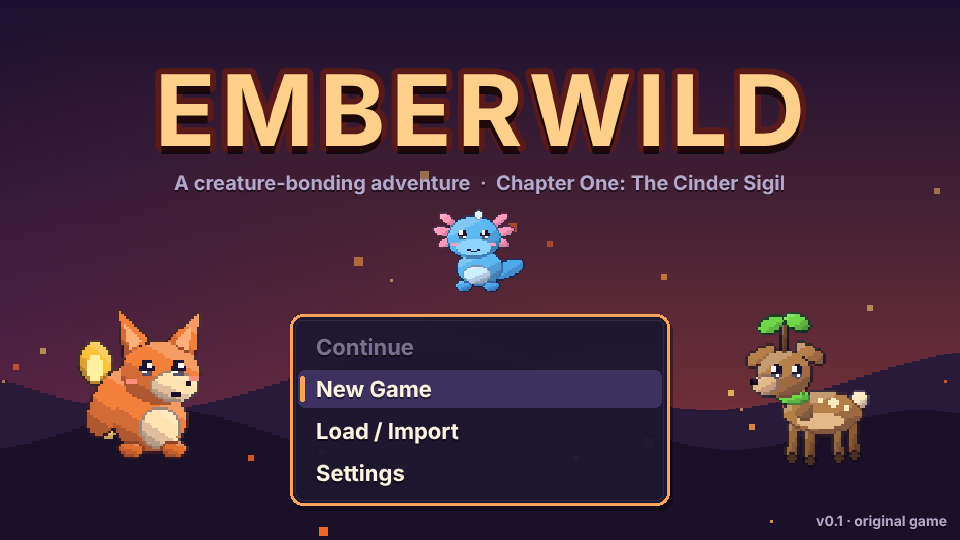
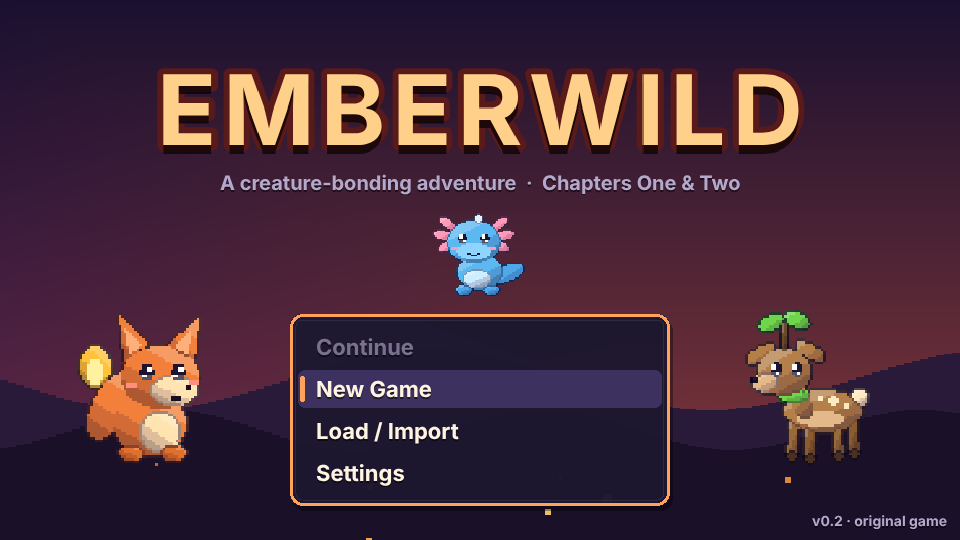
Extend smoke tests into Chapter Two; update docs and screenshots
- Playwright: warp into Gullhaven and walk, ride a Stormcrest gale lane to
  its end, battle a new creature in Mirefen, and continue a real version 1
  save through Cindervale's east gate onto Saltwind Road
- Fix: changing map mid-step could let the old scene write its coordinates
  over the destination; changeMap now cancels the step
- Fix: paddling off a water edge could cross a connection onto a solid tile;
  edge crossings now require a standable (or surfable) destination
- README: Chapter Two overview, systems, puzzle tiles, saves and balance
  notes; CREDITS: Chapter Two art, writing and music
- New screenshots (harbour, marsh, ridge, grotto, hall, two battles) and an
  updated title screen; version 0.2.0

diff --git a/e2e/smoke.spec.ts b/e2e/smoke.spec.ts
@@ -1,50 +1,48 @@
-import { expect, test } from '@playwright/test';
+import { expect, test, type Page } from '@playwright/test';
 
 type Ew = {
   scenes(): string[];
   player(): { x: number; y: number; map: string; busy: boolean; moving: boolean } | null;
+  state(): { version: number; map: string; flags: Record<string, boolean>; party: { species: string }[]; surfing: boolean };
   giveStarter(species?: string, level?: number): void;
   wildBattle(species: string, level: number): Promise<string>;
+  warp(map: string, x: number, y: number): void;
+  step(dir: 'up' | 'down' | 'left' | 'right'): boolean;
 };
 declare global {
   interface Window { __ew: Ew }
 }
 
-test('boots, starts a new game, walks, and finishes a battle without errors', async ({ page }) => {
+function trackErrors(page: Page) {
   const errors: string[] = [];
   page.on('console', (m) => { if (m.type() === 'error') errors.push(m.text()); });
   page.on('pageerror', (e) => errors.push(e.message));
+  return errors;
+}
 
+const player = (page: Page) => page.evaluate(() => window.__ew.player());
+
+async function idle(page: Page) {
+  await expect.poll(async () => { const p = await player(page); return !!p && !p.busy && !p.moving; }, { timeout: 15_000 }).toBe(true);
+}
+
+/** Title -> New Game -> intro text -> pick the first name, until the player can move. */
+async function newGame(page: Page) {
   await page.goto('./');
   await expect.poll(() => page.evaluate(() => window.__ew?.scenes() ?? []), { timeout: 20_000 }).toContain('Title');
-
-  // Title -> New Game -> intro text -> pick the first name
   await page.keyboard.press('Enter');
-  const player = () => page.evaluate(() => window.__ew.player());
   for (let i = 0; i < 60; i++) {
-    const p = await player();
+    const p = await player(page);
     if (p && !p.busy && !p.moving) break;
     await page.keyboard.press('Enter');
     await page.waitForTimeout(400);
   }
-  const start = await player();
-  expect(start?.map).toBe('home');
+}
 
-  // Walk with the real keyboard
-  await page.keyboard.down('ArrowLeft');
-  await page.waitForTimeout(700);
-  await page.keyboard.up('ArrowLeft');
-  await expect.poll(async () => (await player())?.x, { timeout: 5000 }).toBeLessThan(start!.x);
-
-  // Get a partner and enter a wild battle
-  await page.evaluate(() => {
-    window.__ew.giveStarter('kindlet', 8);
-    void window.__ew.wildBattle('mossgrub', 2);
-  });
+/** Press Confirm through a battle until it ends. */
+async function finishBattle(page: Page) {
   await expect.poll(() => page.evaluate(() => window.__ew.scenes()), { timeout: 10_000 }).toContain('Battle');
-
-  // Press Confirm repeatedly: picks Fight -> first move until the wild creature faints (or we flee)
-  for (let i = 0; i < 120; i++) {
+  for (let i = 0; i < 160; i++) {
     const scenes = await page.evaluate(() => window.__ew.scenes());
     if (!scenes.includes('Battle')) break;
     await page.keyboard.press('Enter');
@@ -52,5 +50,86 @@ test('boots, starts a new game, walks, and finishes a battle without errors', as
   }
   await expect.poll(() => page.evaluate(() => window.__ew.scenes()), { timeout: 15_000 }).not.toContain('Battle');
   expect(await page.evaluate(() => window.__ew.scenes())).toContain('Overworld');
+}
+
+test('boots, starts a new game, walks, and finishes a battle without errors', async ({ page }) => {
+  const errors = trackErrors(page);
+  await newGame(page);
+  const start = await player(page);
+  expect(start?.map).toBe('home');
+
+  // Walk with the real keyboard
+  await page.keyboard.down('ArrowLeft');
+  await page.waitForTimeout(700);
+  await page.keyboard.up('ArrowLeft');
+  await expect.poll(async () => (await player(page))?.x, { timeout: 5000 }).toBeLessThan(start!.x);
+
+  // Get a partner and enter a wild battle; pressing Confirm picks Fight -> first move until it ends
+  await page.evaluate(() => {
+    window.__ew.giveStarter('kindlet', 8);
+    void window.__ew.wildBattle('mossgrub', 2);
+  });
+  await finishBattle(page);
+  expect(errors).toEqual([]);
+});
+
+test('warps into the Brinemark Coast, walks, rides a gale lane and battles a new creature', async ({ page }) => {
+  const errors = trackErrors(page);
+  await newGame(page);
+  // Level 8 so the first move is an attack (pressing Confirm always picks it)
+  await page.evaluate(() => window.__ew.giveStarter('kindlet', 8));
+
+  // Gullhaven: arrive and walk east along the harbour road with the keyboard
+  await page.evaluate(() => window.__ew.warp('gullhaven', 10, 7));
+  await expect.poll(async () => (await player(page))?.map, { timeout: 10_000 }).toBe('gullhaven');
+  await idle(page);
+  await page.keyboard.down('ArrowRight');
+  await page.waitForTimeout(900);
+  await page.keyboard.up('ArrowRight');
+  await expect.poll(async () => (await player(page))?.x, { timeout: 5000 }).toBeGreaterThan(10);
+  await idle(page);
+
+  // Stormcrest Ridge: step into a gale lane and get carried to its far end
+  await page.evaluate(() => window.__ew.warp('stormridge', 5, 17));
+  await expect.poll(async () => (await player(page))?.map, { timeout: 10_000 }).toBe('stormridge');
+  await idle(page);
+  await page.evaluate(() => window.__ew.step('up'));
+  await idle(page);
+  await page.evaluate(() => window.__ew.step('up'));
+  await expect.poll(async () => { const p = await player(page); return p && !p.moving ? `${p.map}:${p.x},${p.y}` : ''; }, { timeout: 10_000 }).toBe('stormridge:32,15');
+
+  // Mirefen Marsh: a wild battle against a Chapter Two creature
+  await page.evaluate(() => window.__ew.warp('mirefen', 10, 6));
+  await expect.poll(async () => (await player(page))?.map, { timeout: 10_000 }).toBe('mirefen');
+  await idle(page);
+  await page.evaluate(() => { void window.__ew.wildBattle('bogbloop', 2); });
+  await finishBattle(page);
+  expect(errors).toEqual([]);
+});
+
+test('continues a Chapter One (version 1) save', async ({ page }) => {
+  const errors = trackErrors(page);
+  const v1 = {
+    version: 1, playerName: 'Wren', rivalStarter: 'puddlop', starter: 'kindlet', map: 'cindervale', x: 22, y: 7, dir: 'right',
+    party: [{ uid: 'a', species: 'pyrolynx', level: 15, xp: 2700, hp: 40, ivs: { hp: 10, atk: 10, def: 10, spa: 10, spd: 10, spe: 10 }, moves: [{ id: 'scratch', pp: 35, maxPp: 35 }], status: null, statusTurns: 0 }],
+    storage: [], bag: { bond_stone: 3, wildlog: 1 }, money: 2400,
+    flags: { introDone: true, gotStarter: true, beatWarden: true }, seen: ['kindlet'], caught: ['kindlet'], defeatedTrainers: [],
+    lastHearth: { map: 'hearth_cv', x: 6, y: 3 }, clock: 600, playTimeMs: 4_000_000,
+    stats: { steps: 3000, battlesWon: 40, wildEncounters: 30, bonded: 4 }, savedAt: Date.now(),
+  };
+  await page.addInitScript((save) => { window.localStorage.setItem('emberwild.auto', save); }, JSON.stringify(v1));
+  await page.goto('./');
+  await expect.poll(() => page.evaluate(() => window.__ew?.scenes() ?? []), { timeout: 20_000 }).toContain('Title');
+  await page.keyboard.press('Enter'); // Continue
+  await expect.poll(async () => (await player(page))?.map, { timeout: 10_000 }).toBe('cindervale');
+  const st = await page.evaluate(() => window.__ew.state());
+  expect(st.version).toBe(2);
+  expect(st.surfing).toBe(false);
+  expect(st.party[0].species).toBe('pyrolynx');
+  // The east gate is open after beating Corra: walk off the east edge onto Saltwind Road
+  await idle(page);
+  await page.keyboard.down('ArrowRight');
+  await expect.poll(async () => (await player(page))?.map, { timeout: 15_000 }).toBe('route3');
+  await page.keyboard.up('ArrowRight');
   expect(errors).toEqual([]);
 });

diff --git a/src/scenes/OverworldScene.ts b/src/scenes/OverworldScene.ts
@@ -382,6 +382,10 @@ export class OverworldScene extends Phaser.Scene {
       const t = getMap(c.map);
       const tx = side === 'east' ? 0 : side === 'west' ? t.rows[0].length - 1 : this.px + c.offset;
       const ty = side === 'north' ? t.rows.length - 1 : side === 'south' ? 0 : this.py + c.offset;
+      // Only cross if we could stand there (e.g. paddling off a water edge onto trees is not allowed).
+      const dest = t.rows[ty]?.[tx];
+      const spec = dest === undefined ? undefined : LEGEND[dest];
+      if (!spec || (spec.solid && !(spec.water && session.state.surfing))) return this.bump();
       this.changeMap(c.map, tx, ty, d, false);
       return;
     }
@@ -697,6 +701,9 @@ export class OverworldScene extends Phaser.Scene {
   changeMap(mapId: string, x: number, y: number, dir: Dir, autosave: boolean) {
     if (this.transitioning) return;
     this.transitioning = true;
+    // Cancel any step in progress so it can't write this map's coordinates over the destination.
+    this.moving = false;
+    this.sliding = false;
     const st = session.state;
     if (mapId !== st.map) moveRoamer(st.roamer, session.rng);
     if (!LEGEND[getMap(mapId).rows[y]?.[x] ?? '.']?.water) st.surfing = false;

diff --git a/README.md b/README.md
@@ -1,6 +1,6 @@
 # Emberwild
 
-**An original creature-bonding RPG that runs in your browser.** Pick a partner, explore a rain-soaked forest and a pitch-black crystal cave, bond with wild creatures, outwit the mysterious Hollow Veil and take on Warden Corra for the Cinder Sigil.
+**An original creature-bonding RPG that runs in your browser.** Pick a partner, explore a rain-soaked forest and a pitch-black crystal cave, bond with wild creatures, outwit the mysterious Hollow Veil and take on Warden Corra for the Cinder Sigil. Then head east to the Brinemark Coast: paddle across a tidal marsh, ride the gale lanes of a storm-swept ridge, rescue Warden Maren and earn the Tide Sigil.
 
 ▶ **Play it: https://zerochance1907.github.io/emberwild/**
 
@@ -10,8 +10,13 @@
 |---|---|
 | ![Overworld](docs/screenshots/village.png) | ![Battle](docs/screenshots/battle.png) |
 | ![Whisperwood in the rain](docs/screenshots/forest.png) | ![Glimmer Cave](docs/screenshots/cave.png) |
+| ![Gullhaven harbour](docs/screenshots/harbor.png) | ![Paddling across Mirefen Marsh on the Driftboard](docs/screenshots/marsh.png) |
+| ![Gale lanes on Stormcrest Ridge](docs/screenshots/ridge.png) | ![Tide pools in Tidewrack Grotto](docs/screenshots/grotto.png) |
+| ![The current maze in Tidewater Hall](docs/screenshots/hall.png) | ![A battle in the marsh](docs/screenshots/battle-marsh.png) |
 
-Chapter One is a complete adventure of about 1–2 hours: a village, two routes, a forest with a light puzzle and hidden items, a dark cave dungeon and a town with the first Warden.
+**Chapter One** (about 1–2 hours) has a village, two routes, a forest with a light puzzle and hidden items, a dark cave dungeon and a town with the first Warden.
+
+**Chapter Two** (about 2–3 hours) continues from Warden Corra's victory. The rockslide on Cindervale's east road is cleared, and Saltwind Road leads to the port town of **Gullhaven**. From there you cross **Mirefen Marsh** on a reed Driftboard to the ruined **Starfall Observatory**, where Veil Admin Vesper has built a lens that steals lightning from a storm. With the storm broken, the ferry carries you to **Stormcrest Ridge** and its gale lanes, then down into **Tidewrack Grotto**, a dungeon of tide valves, to rescue Warden Maren. Finish by solving the current maze of **Tidewater Hall** and battling Maren for the Tide Sigil. After that, the **Tidewatch Spire** opens for a post-game battle streak.
 
 ## Controls
 
@@ -27,23 +32,31 @@ Every key can be remapped under **Settings → Remap keys**. Hold *Back* to fast
 
 ## Features
 
-- **18 original creatures** across 8 types (Ember, Tide, Sprout, Gale, Stone, Spark, Shade, Fae), each with stats, a learnset, a Wildlog entry and evolution lines. All sprites (front, back and icon) are drawn in code.
-- **50 moves** (physical, special and status) and **5 status conditions**: burned, blighted, jolted, drowsy and dazed.
+- **36 original creatures** across 8 types (Ember, Tide, Sprout, Gale, Stone, Spark, Shade, Fae), each with stats, a learnset, a Wildlog entry and evolution lines. Two lines have three stages (Pipwhisk → Wadewing → Galeheron, Fizzkid → Ramblast → Cragthunder), and the rare Squallion roams the coast. All sprites (front, back and icon) are drawn in code.
+- **79 moves** (physical, special and status) and **5 status conditions**: burned, blighted, jolted, drowsy and dazed.
 - **Turn-based battles** with speed order and priority, accuracy, critical hits, same-type bonus, stat stages, switching, items, fleeing and catching with Bond Stones (with shake animation). There's also XP, level-ups, move learning with a replace prompt, and an evolution scene.
 - **Trainer AI** that scores moves by damage, KO potential, type matchups and status value, heals when in danger and switches out of bad matchups.
-- **A short story** with a rival (Kip), the Hollow Veil and their Agent Nyx, a side quest (Old Bram's lost lantern), ten trainers with line-of-sight challenges and a chapter-end stats screen.
-- **Systems:** starter choice, a team of 6 plus storage, bag, shop, Hearth healing, Wildlog (seen/bonded), and autosave plus 3 manual slots with export/import save codes.
-- **Modern feel:** smooth tile movement and running, camera easing, a day/night cycle, rain in Whisperwood, a lantern-lit dark cave, and animated water, grass and crystals. Battles have hit flashes, screen shake, eased HP bars, damage numbers and particles for each type.
+- **A story in two chapters** with a rival (Kip, three battles), the Hollow Veil's Agent Nyx and Tempest Admin Vesper, two Wardens, 37 trainers with line-of-sight challenges, three side quests (Old Bram's lost lantern, Fisher Wade's Ribboneel, Keeper Ysolde's star log) and a stats screen at the end of each chapter.
+- **Systems:** starter choice, a team of 6 plus storage, bag, shops, Hearth healing, Wildlog (seen/bonded), and autosave plus 3 manual slots with export/import save codes. Saves from Chapter One load and continue straight into Chapter Two.
+- **Chapter Two systems:**
+  - **Lure Reed fishing:** face water, cast, and press Confirm the moment the "!" appears. Each area has its own catches.
+  - **Driftboard:** paddle across deep water, which has its own wild creatures.
+  - **Held items:** eight type charms plus Moss Wrap, Mend Berry, Clear Leaf, Stubborn Shell, Swift Feather and Lucky Scale. Give and take them from the team screen.
+  - **Nestkeeper's day-care:** creatures train as you walk. Two that share a type may lay an egg, which hatches into the line's first stage with the best IVs of both parents.
+  - **Tidewatch Spire:** a post-game streak of battles against generated level-30+ teams, with no items allowed and a prize every third win.
+  - **The roaming Squallion:** it moves every time you change map, keeps its HP between meetings and bolts after a turn or two.
+- **Puzzles:** lantern lighting in Whisperwood, gale lanes on Stormcrest Ridge, tide valves in Tidewrack Grotto and a current maze in Tidewater Hall. A pure-logic solver in the tests proves every push and tide puzzle can be solved and can never trap you.
+- **Modern feel:** smooth tile movement and running, camera easing, a day/night cycle, rain in Whisperwood and Mirefen, thunderstorms with lightning on Stormcrest Ridge, a lantern-lit dark cave, and animated water, grass, reeds, wind and crystals. Battles have hit flashes, screen shake, eased HP bars, damage numbers and particles for each type.
 - **Accessibility and quality of life:** reduced-motion mode, text speed, battle speed, volume, remappable keys, touch controls and gamepad support.
-- **Audio:** an original chiptune soundtrack (title, town, route, forest, cave, Hearth, battle, trainer, Veil, Warden, victory and ending), synthesized live with WebAudio by a tiny step sequencer, plus code-generated sound effects and a unique cry for every creature. There are no audio files.
+- **Audio:** an original chiptune soundtrack of 20 tracks, synthesized live with WebAudio by a tiny step sequencer. Chapter One has title, town, route, forest, cave, Hearth, battle, trainer, Veil, Warden, victory and ending. Chapter Two adds Saltwind Road, Gullhaven harbour, marsh, observatory, ridge, grotto, the Spire and a theme for Admin Vesper. There are also code-generated sound effects (gusts, splashes, valves, thunder) and a unique cry for every creature. There are no audio files.
 
 ## Development
 
 ```bash
 npm install
 npm run dev        # local dev server
-npm test           # Vitest unit tests (battle engine, saves, maps, music data)
-npm run e2e        # Playwright smoke test (builds first with `npm run build`)
+npm test           # Vitest unit tests (battle engine, saves + migration, maps, puzzles, balance sim, music data)
+npm run e2e        # Playwright smoke tests (run `npm run build` first)
 npm run build      # typecheck + production build into dist/
 ```
 
@@ -52,12 +65,12 @@ Built with TypeScript, Vite and Phaser 3 (exact versions pinned in `package.json
 ### Project layout
 
 ```
-src/engine/   pure game logic (battle, AI, creatures, saves) — no Phaser, fully unit tested
-src/data/     creatures, moves, types, items, trainers, maps
+src/engine/   pure game logic (battle, AI, creatures, saves, day-care, Spire, roamer, puzzle traversal) — no Phaser, unit tested
+src/data/     creatures, moves, types, items, trainers, maps (maps2.ts is the Brinemark Coast)
 src/art/      sprite rasterizer, tile painter, character generator, creature designs
 src/audio/    WebAudio sequencer + tracks
 src/scenes/   Phaser scenes (title, overworld, UI overlay, battle, evolution, ending, touch)
-src/game/     input, settings, session state and story scripts
+src/game/     input, settings, session state and story scripts (scripts2.ts is Chapter Two)
 src/ui/       dialog box, menus and widgets
 tests/        Vitest suites        e2e/   Playwright smoke test
 ```
@@ -65,13 +78,28 @@ tests/        Vitest suites        e2e/   Playwright smoke test
 ### Adding a creature
 
 1. Add a `Species` entry in `src/data/creatures.ts` (types, base stats, learnset, optional `evolves`, Wildlog text).
-2. Draw it in `src/art/creatureArt.ts`: a list of layered shapes on a 64×64 grid, facing left. `E` is an ellipse, `P` a polygon, `L` a thick line and `EYE` a glossy eye. Shading, contour lines and outlines are added automatically, and the back sprite and icon are generated from the same shapes.
+2. Draw it in `src/art/creatureArt.ts` (Chapter One) or `src/art/creatureArt2.ts` (Chapter Two): a list of layered shapes on a 64×64 grid, facing left. `E` is an ellipse, `P` a polygon, `L` a thick line and `EYE` a glossy eye. Shading, contour lines and outlines are added automatically, and the back sprite and icon are generated from the same shapes.
 3. Preview your art with `npx vite-node scripts/preview-creatures.ts out.png`.
-4. Add it to an encounter table in `src/data/maps.ts` or to a trainer team in `src/data/trainers.ts`. The unit tests check that every reference is valid.
+4. Add it to an encounter table (`encounters`, `surf` or `fishing`) in `src/data/maps.ts` / `maps2.ts`, or to a trainer team in `src/data/trainers.ts`. The unit tests check that every reference is valid.
 
 ### Adding a map
 
 Maps are ASCII grids in `src/data/maps.ts`. The legend is in `src/art/tiles.ts` (`LEGEND`): for example `.` grass, `,` tall grass, `:` path, `T` tree, `~` water, `v` ledge, `D` door. Add `warps` for doors, `connections` for map edges, plus `npcs`, `signs`, `items` (optionally `hidden`) and an `encounters` table. Run `npm test` to validate sizes, warps and edge connections, and `npx vite-node scripts/preview-maps.ts outdir` to render PNG previews.
+
+Chapter Two adds some tiles of its own:
+- `r` reeds, `n` mud, `d` dock, `E`/`I` ruin floor, `A` ruin wall and `u` ridge rock.
+- Gust tiles `< > ^ |` and current tiles `[ ] { }` carry the player in their direction until they reach a normal tile.
+- Tide tiles: `%` is underwater at high tide and `&` is underwater at low tide. Valve objects (`kind: 'valve'`) toggle the tide for that map.
+
+Any map that uses push or tide tiles must be added to `tests/puzzles.test.ts`, which uses the solver in `src/engine/traverse.ts` to check that the goal is reachable and that no spot can trap the player. Set `noSurf` on puzzle maps so the Driftboard can't skip them, and add `surf` and `fishing` tables to give water its own creatures.
+
+### Saves
+
+Saves are versioned (`SAVE_VERSION` in `src/engine/save.ts`). Each version bump adds an entry to `MIGRATIONS` that only adds or fills fields, and `tests/save.test.ts` loads an exact Chapter One (version 1) save to prove old saves keep working.
+
+### Balance
+
+`tests/balance.test.ts` plays both chapters with a simulated no-items player: catching a creature per area, fighting the wild creatures and every trainer, and battling each Warden. Chapter Two checks several seeds per starter. Run `SIM_SWEEP=1 npx vitest run tests/balance.test.ts -t sweep` to print win rates over 20 seeds.
 
 ## Originality
 

diff --git a/CREDITS.md b/CREDITS.md
@@ -2,8 +2,9 @@
 
 Emberwild uses **no third-party art, audio or font files**.
 
-- **Art:** all creature sprites, characters, tiles, UI and effects are generated from code in `src/art/` at startup. They are original to this project.
-- **Music and sound:** composed for this project and synthesized at runtime with the Web Audio API (`src/audio/`).
+- **Art:** all creature sprites, characters, tiles, UI and effects are generated from code in `src/art/` at startup. They are original to this project. This includes the 18 Brinemark Coast creatures of Chapter Two (`src/art/creatureArt2.ts`), the coast, marsh, ruin, ridge, gust, current and tide tiles, and the Driftboard, bobber, valve and lens sprites.
+- **Story, characters and places:** Emberwild, the Hollow Veil, the Pale Regent, every Warden, rival and trainer, and every town, route and dungeon (including Gullhaven, Mirefen Marsh, the Starfall Observatory, Stormcrest Ridge, Tidewrack Grotto and Tidewater Hall) were written for this project.
+- **Music and sound:** composed for this project and synthesized at runtime with the Web Audio API (`src/audio/`). Chapter Two's eight tracks (Saltwind Road, Gullhaven, Mirefen, Starfall, Stormcrest, Tidewrack, Tidewatch Spire and Admin Vesper's theme) were written note by note in `src/audio/tracks.ts`, as were the gust, splash, valve and thunder effects.
 - **Fonts:** the game uses the player's system fonts (Trebuchet MS, Segoe UI, Helvetica or Arial), so no font files are bundled.
 
 ## Libraries
